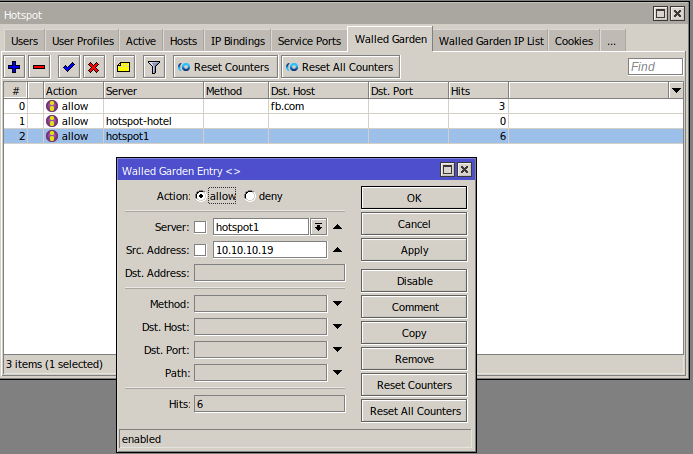
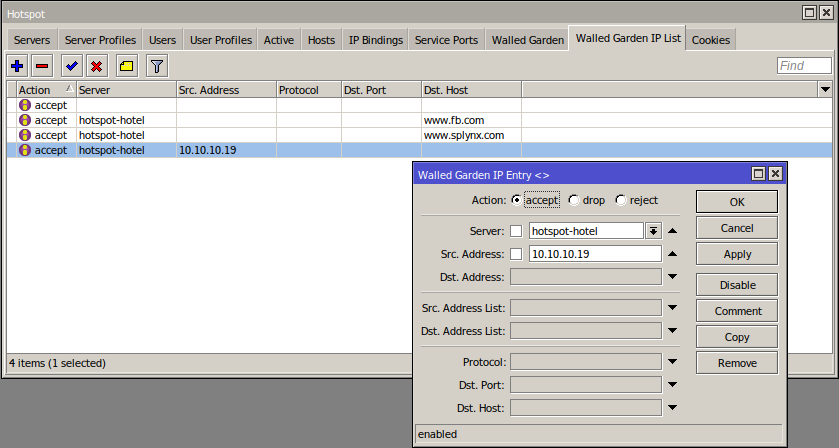
update hotspot/radius

diff --git a/files/networking/authentication_users/mikrotik_hotspot_radius/mikrotik_hotspot_radius.md b/files/networking/authentication_users/mikrotik_hotspot_radius/mikrotik_hotspot_radius.md
@@ -113,23 +113,25 @@ Setting the MAC address of client to his internet service
 
 If client has a static/permanent IP address assigned to the service, than blocking is made via putting IP address to the address list and further redirect. In case of dynamic IP address, the hotspot IP of client is mapped to one of IPs from the blocking range of Splynx. To get more information about blocking customers, please, read our tutorial page - [blocking customers in Splynx](blocking_customers/blocking_customers.md)
 
-#### How to allow some resources for customers
-Let's say you need to allow access to some resource https://example.com for blocked customers, it can be achieved using **Wallen garden** option of Hotspot:
+### How to allow some resources for customers
+Let's say you need to allow access to some resource https://splynx.com for blocked customers, it can be achieved using **Wallen garden** option of Hotspot:
 
 ![wallen garden](wallen_garden.png)
 
-Simply select "Dst.Host" and action = "allow" to bypass traffic to needed resource without Hotspot authentication.
+Simply specify "Dst.Host", select "Server" and action = "accept" to bypass traffic to needed resource without Hotspot authentication.
 
 Mikrotik walled garden allows users to create an exception rule to bypass certain devices on the LAN from hotspot authentication. While the Mikrotik hotspot is one of the much appreciated features in the Mikrotik routerOS, without the use of the Mikrotik walled garden, it will be impossible to connect devices like servers and printers to a network placed behind a hotspot server.
-
-Let's say you have a server with IP 10.10.10.19 what will be connected to a hotspot and you need to provide a stable connection without authentication - you can use next setup:
-
-![bypass IP](bypass_IP.png)
-
-With this rule enabled the device 10.10.10.19 won't need to authenticate on Hotspot server.
 
 ### Setting different values to Radius attributes
 
 In `Config → Networking → Radius` is field available for setting additional attributes.
 
 To understand the usage of Radius attributes customization, please, follow the guide - [Radius server customization](radius_customization/radius_customization.md)
+
+
+### Useful resources
+
+https://wiki.mikrotik.com/wiki/Manual:Hotspot_Introduction
+https://wiki.mikrotik.com/wiki/Manual:IP/Hotspot
+https://wiki.mikrotik.com/wiki/Manual:IP/Hotspot/Walled_Garden
+https://wiki.mikrotik.com/wiki/Manual:Customizing_Hotspot
